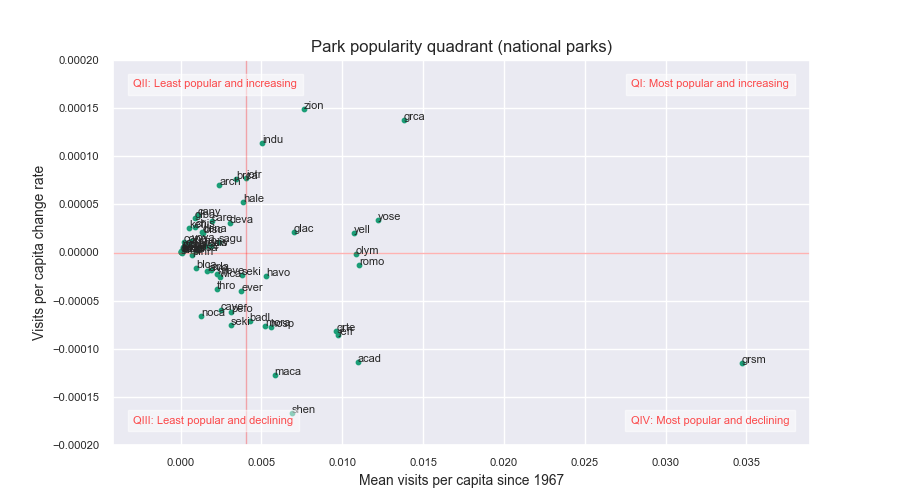
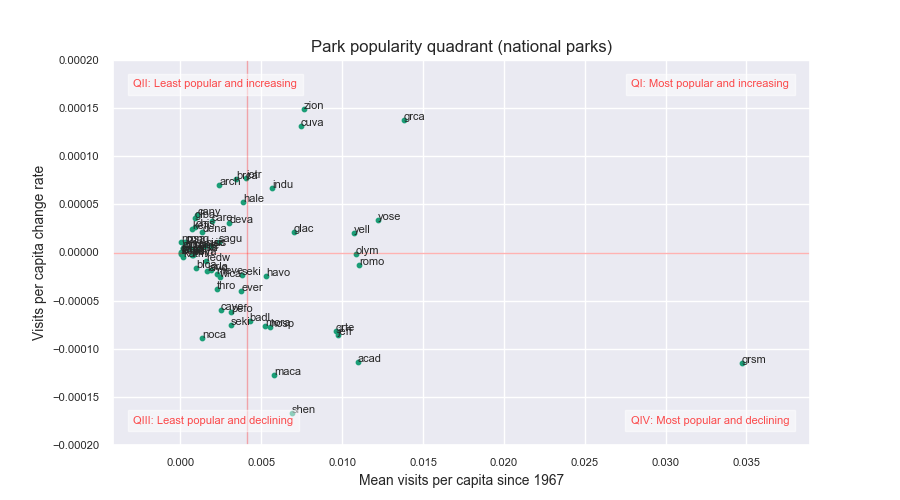
Update blog post #6 and about page.

diff --git a/_posts/2019-07-10-which-parks-are-most-popular.md b/_posts/2019-07-10-which-parks-are-most-popular.md
@@ -18,24 +18,24 @@ The plot below is a park popularity quadrant. It plots mean park visits per capi
 
 ![Quadrant image]({{ site.baseurl }}/assets/06_census_park_popularity_quadrant_national_parks.png)
 <span style="font-size:10pt;">Because there are 61 parks on the plot, and many are clustered together, it is difficult to read the park codes. Quadrant contents are listed at the bottom of this post.</span>
-
-* It is no surprise that of the 8 parks in Quadrant I, 5 are in the list of top 10 most visited. But where are the remaining 5 top tenners? They can all be found in Quadrant IV, still very popular, but their visits per capita rate is actually declining.
-* The additional 3 parks in Quadrant I, popular and getting more popular, are Indiana Dunes NP, Cuyahoga Valley NP, and Joshua Tree NP. These parks are all near major urban areas, which may contribute to their increasing popularity - this is worth looking into more in a future blog post.
+<br/>
+* It is no surprise that of the 7 parks in Quadrant I, 5 are in the list of top 10 most visited. But where are the remaining 5 top tenners? They can all be found in Quadrant IV, still very popular, but their visits per capita rate is actually declining.
+* The additional 2 parks in Quadrant I, popular and getting more popular, are Indiana Dunes NP and Cuyahoga Valley NP. Both of these parks are near major urban areas, which may contribute to their increasing popularity - this is worth looking into more in a future blog post.
 * Quadrant II contains the "up and comers." These parks are less popular and presumably less crowded, but their popularity is on the increase.
 * Quadrant IV contains the less popular parks whose popularity is on the decline. These are the ones to visit to avoid the crowds.
-* Interestingly, all 8 of the national parks in Alaska are in Quadrant II. They don't get a lot of visitors, but their popularity is on the rise.
+* Interestingly, 5 of the 8 national parks in Alaska are in Quadrant II. They don't get a lot of visitors, but their popularity is on the rise.
 
 Over the next blog posts, I will look at a few of these parks in more detail.
 
 ### Parks by quadrant
 #### Quadrant I
-Cuyahoga Valley National Park, Glacier National Park, Grand Canyon National Park, Indiana Dunes National Park, Joshua Tree National Park, Yellowstone National Park, Yosemite National Park, Zion National Park.
+Cuyahoga Valley National Park, Glacier National Park, Grand Canyon National Park, Indiana Dunes National Park, Yellowstone National Park, Yosemite National Park, Zion National Park.
 
 #### Quadrant II
-Arches National Park, Big Bend National Park, Biscayne National Park, Bryce Canyon National Park, Canyonlands National Park, Capitol Reef National Park, Channel Islands National Park, Congaree National Park, Death Valley National Park, Denali National Park, Dry Tortugas National Park, Gates of the Arctic National Park, Glacier Bay National Park, Great Basin National Park, Great Sand Dunes National Park, Guadalupe Mountains National Park, Haleakalā National Park, Katmai National Park, Kenai Fjords National Park, Kobuk Valley National Park, Lake Clark National Park, National Park of American Samoa, Redwood National Park, Saguaro National Park, Virgin Islands National Park, Voyageurs National Park, Wrangell-St. Elias National Park.
+Arches National Park, Big Bend National Park, Biscayne National Park, Bryce Canyon National Park, Canyonlands National Park, Capitol Reef National Park, Channel Islands National Park, Congaree National Park, Death Valley National Park, Denali National Park, Dry Tortugas National Park, Gates of the Arctic National Park, Glacier Bay National Park, Great Basin National Park, Great Sand Dunes National Park, Guadalupe Mountains National Park, Haleakalā National Park, Joshua Tree National Park, Kenai Fjords National Park, National Park of American Samoa, Saguaro National Park, Virgin Islands National Park, Wrangell-St. Elias National Park.
 
 #### Quadrant III
-Black Canyon of the Gunnison National Park, Carlsbad Caverns National Park, Crater Lake National Park, Everglades National Park, Isle Royale National Park, Kings Canyon National Park, Lassen Volcanic National Park, Mesa Verde National Park, North Cascades National Park, Petrified Forest National Park, Pinnacles National Park, Sequoia National Park, Theodore Roosevelt National Park, Wind Cave National Park.
+Black Canyon of the Gunnison National Park, Carlsbad Caverns National Park, Crater Lake National Park, Everglades National Park, Isle Royale National Park, Katmai National Park, Kings Canyon National Park, Kobuk Valley National Park, Lake Clark National Park, Lassen Volcanic National Park, Mesa Verde National Park, North Cascades National Park, Petrified Forest National Park, Pinnacles National Park, Redwood National Park, Sequoia National Park, Theodore Roosevelt National Park, Voyageurs National Park, Wind Cave National Park.
 
 #### Quadrant IV
 Acadia National Park, Badlands National Park, Gateway Arch National Park, Grand Teton National Park, Great Smoky Mountains National Park, Hawai'i Volcanoes National Park, Hot Springs National Park, Mammoth Cave National Park, Mount Rainier National Park, Olympic National Park, Rocky Mountain National Park, Shenandoah National Park.

diff --git a/_drafts/2019-07-24-a-closer-look.md b/_drafts/2019-07-24-a-closer-look.md
@@ -4,3 +4,7 @@ title: A closer look
 date: 24-7-2019
 tags: national-park-service
 ---
+In the last post, [Which parks are the most popular?](http://goodmorningdata.com/which-parks-are-most-popular/), we took a look at park popularity using a plot of mean visits per capita vs. visits per capita change rate divided into quadrants. In this post, let's take a look at a four parks in each of the quadrants.
+
+Quadrant I: Most Popular and Increasing
+The parks in Quadrant I have the highest mean visits per capita since 1967 and an increasing visit change rate since that year. The plot below 

diff --git a/about.md b/about.md
@@ -8,7 +8,7 @@ A blog of data science currently focusing on National Park Service data.
 
 As I spend the year with my family, travelling to as many national parks as possible, I have been taking online courses and teaching myself data science skills. This blog is a way to demonstrate and practice those skills while dealing with data about one of my favorite subjects.
 
-Code repository available on [GitHub](https://github.com/goodmorningdata).
+Code repository available on [GitHub](https://github.com/goodmorningdata/nps).
 
 ### Contact me
 
